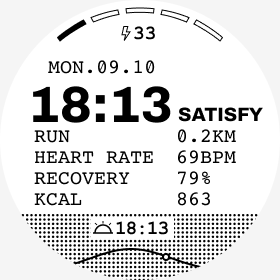
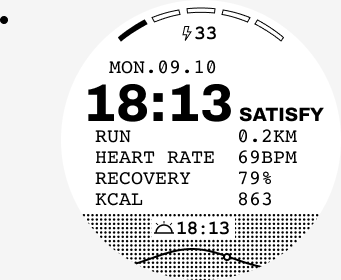
Time per updated mockup: 52 px, ink top y=84, label back to time baseline; mockup files updated

diff --git a/gen_svg.py b/gen_svg.py
@@ -10,9 +10,9 @@ match the device. Layout constants mirror TypeFaceView.mc / preview.py.
 import math
 
 CX = CY = 140
-BATT_Y, DATE_Y, TIME_Y, SAT_Y = 22, 56, 76, 109
+BATT_Y, DATE_Y, TIME_Y, SAT_Y = 22, 56, 74, 104
 BATT_X, DATE_X = 133, 48
-LABEL_X, COL2_X, SAT_X, TIME_X = 34, 176, 178, 28
+LABEL_X, COL2_X, SAT_X, TIME_X = 34, 176, 178, 23
 ROW_Y = [125, 146, 167, 188]
 BAND_Y = 214
 SEG_COUNT, SEG_LEN, SEG_END, SEG_GAP, SEG_R_OUT, SEG_R_IN = 5, 12.0, 14.0, 3.5, 131, 126
@@ -23,7 +23,7 @@ BATT = 33
 TEXT_BASE = 5 + 11    # Courier Prime Regular 20 (rows)
 DATE_BASE = 5 + 11    # Courier Prime Regular 20
 BOLD_BASE = 4 + 13    # Courier Prime Bold 21, condensed 0.88 (battery, sun time)
-TIME_BASE = 10 + 39   # Archivo 900 wdth 90, 54
+TIME_BASE = 10 + 37   # Archivo 900 wdth 90, 52
 LABEL_BASE = 4 + 12   # Archivo 800, 18
 TEXT_SX = 1.0
 BOLD_SX = 11 / 13
@@ -96,7 +96,7 @@ L.append('  <polygon id="bolt" points="' + " ".join(f"{x},{y}" for x, y in BOLT)
 
 # date / time / label / rows
 L.append(text("date", DATE_X, DATE_Y + DATE_BASE, "MON.09.10", 20, 1.0))
-L.append(text("time", TIME_X, TIME_Y + TIME_BASE, "18:13", 54, TIME_SX, family="Archivo", weight=900, stretch="90%"))
+L.append(text("time", TIME_X, TIME_Y + TIME_BASE, "18:13", 52, TIME_SX, family="Archivo", weight=900, stretch="90%"))
 L.append(text("label", SAT_X, SAT_Y + LABEL_BASE, "SATISFY", 18, 1.0, family="Archivo", weight=800))
 for i, (k, v) in enumerate([("RUN", "0.2KM"), ("HEART RATE", "69BPM"), ("RECOVERY", "79%"), ("KCAL", "863")]):
     L.append(text(f"row {i+1} label", LABEL_X, ROW_Y[i] + TEXT_BASE, k, 20, TEXT_SX))

diff --git a/gen_fonts.py b/gen_fonts.py
@@ -91,7 +91,7 @@ def build(name, specs, out_prefix):
     return line_h
 
 # Fonts measured from typeface-7x_figma.svg:
-#   time           Archivo wght 900, wdth 90, 54 px
+#   time           Archivo wght 900, wdth 90, 52 px
 #   label          Archivo wght 800, 18 px
 #   battery, sun time  Courier Prime Bold 21 px condensed 0.88
 #   rows, date         Courier Prime Regular 20 px
@@ -103,7 +103,7 @@ def archivo(size, weight, width=100):
 DIGITS = "0123456789"
 UPPER = "ABCDEFGHIJKLMNOPQRSTUVWXYZ"
 
-build("time",  [(archivo(54, 900, 90), DIGITS + ":", 1.0, 0)], "time")
+build("time",  [(archivo(52, 900, 90), DIGITS + ":", 1.0, 0)], "time")
 build("label", [(archivo(18, 800), UPPER + " ", 1.0, 0)], "label")
 build("bold",  [(ImageFont.truetype("CourierPrime-Bold.ttf", 21), DIGITS + ":-", 0.88, 2)], "bold")
 build("text",  [(ImageFont.truetype("CourierPrime-Regular.ttf", 20), UPPER + DIGITS + ".:%-+/ ", 1.0, 2)], "text")

diff --git a/preview.py b/preview.py
@@ -55,11 +55,11 @@ BATT_Y  = 22
 BATT_X  = 133
 DATE_X  = 48
 DATE_Y  = 56
-TIME_Y  = 76
-TIME_X  = 28
+TIME_Y  = 74
+TIME_X  = 23
 COL2_X  = 176
 SAT_X   = 178
-SAT_Y   = 109
+SAT_Y   = 104
 ROW_Y   = [125, 146, 167, 188]
 LABEL_X = 34
 BAND_Y  = 214
